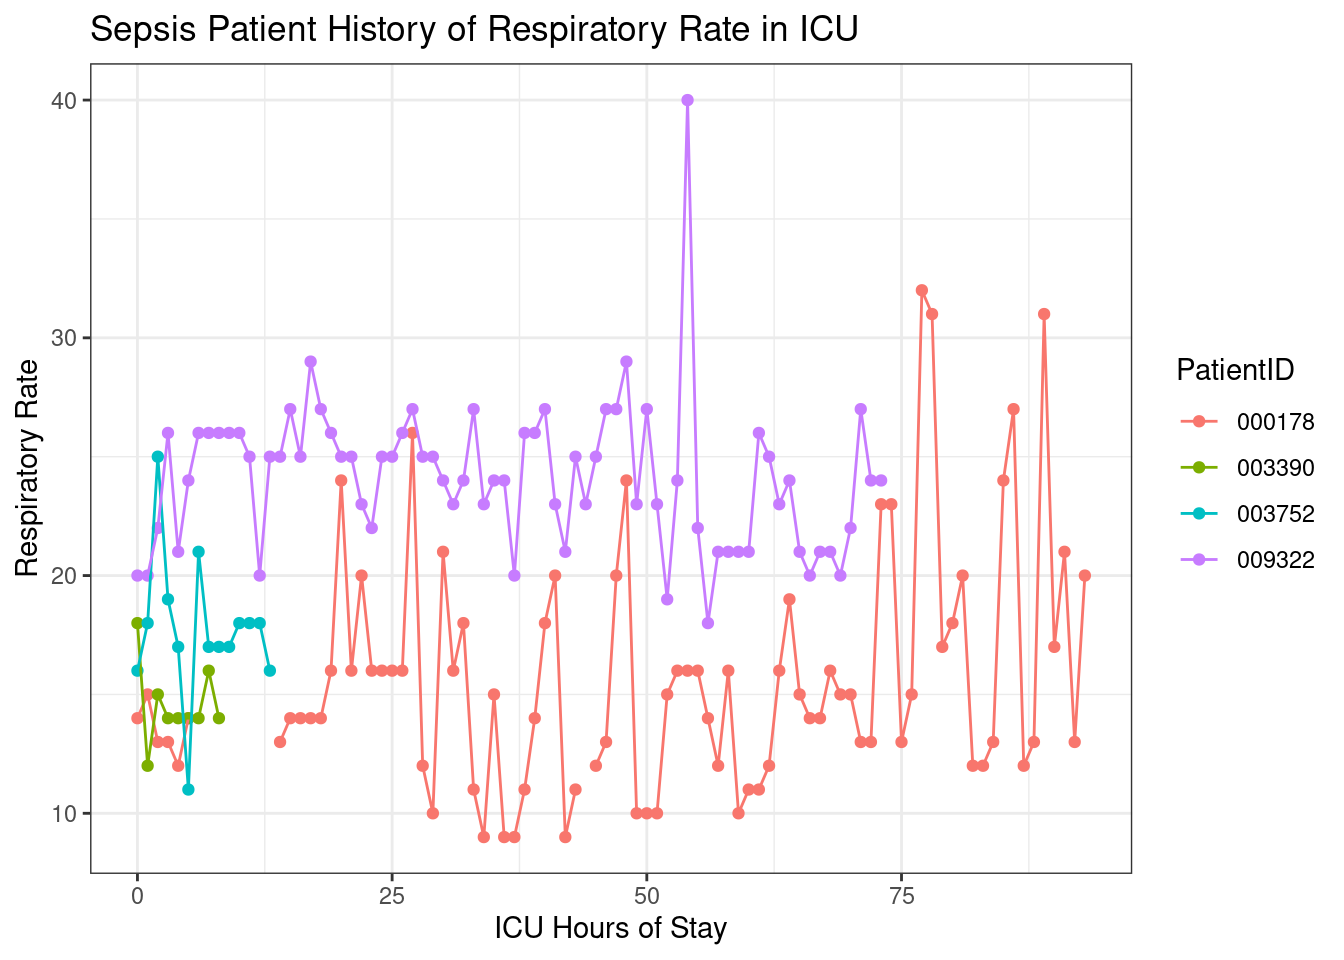
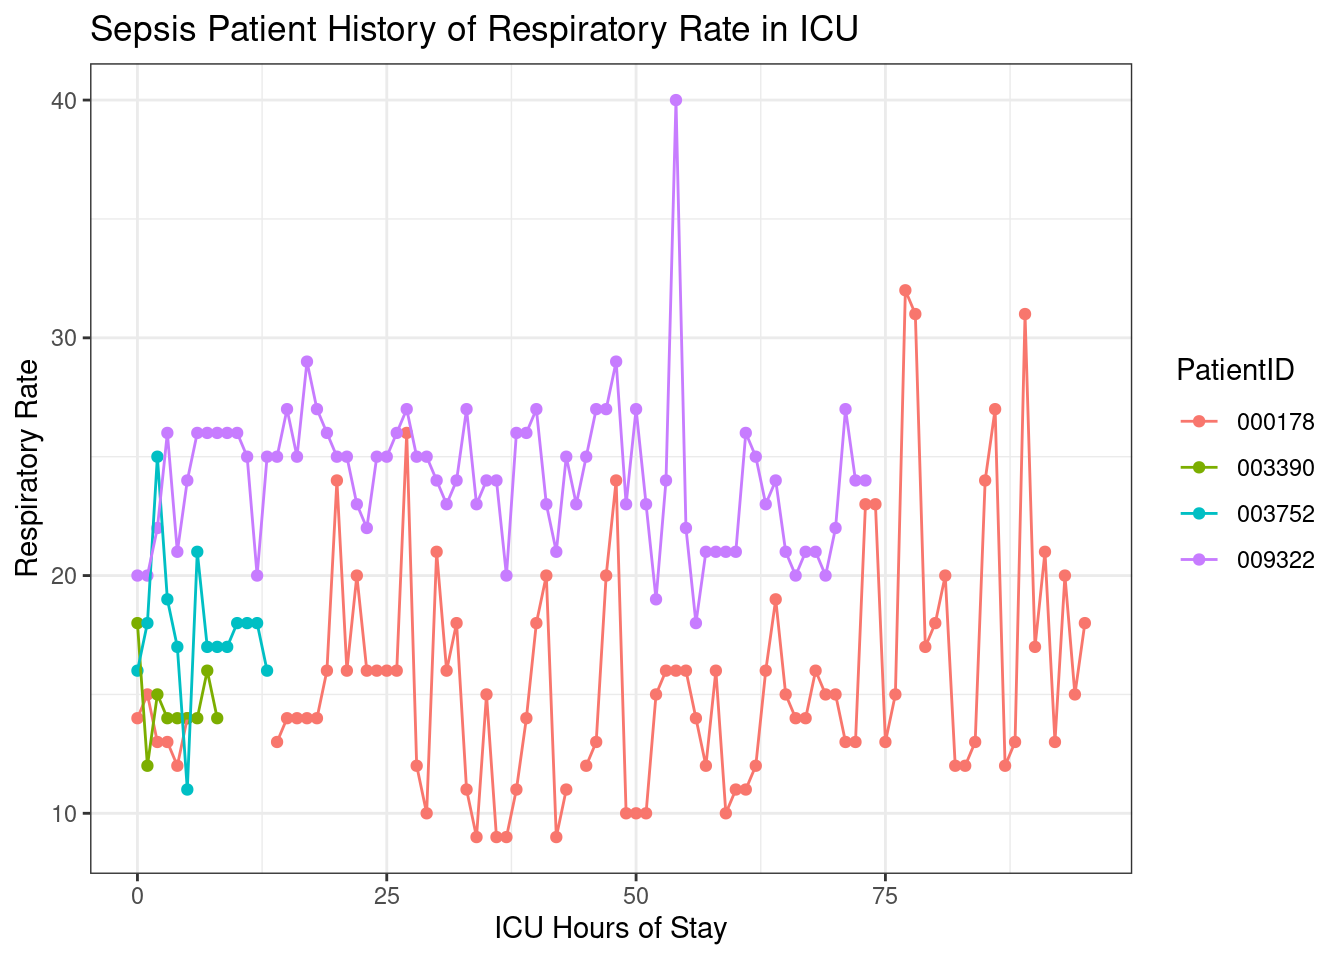
Updated report

diff --git a/A7.html b/A7.html
@@ -63,7 +63,7 @@ ul.task-list li input[type="checkbox"] {
 
 </header>
 
-<p>Report Last run 2023-04-12 15:12:49</p>
+<p>Report Last run 2023-04-12 16:15:26</p>
 <div class="cell">
 
 </div>
@@ -72,7 +72,7 @@ ul.task-list li input[type="checkbox"] {
 </div>
 <section id="task-4-make-an-icu-status-report" class="level1">
 <h1>Task 4: Make an ICU status report</h1>
-<p>This report was generated on 2023-04-12 15:12:53.</p>
+<p>This report was generated on 2023-04-12 16:15:29.</p>
 <div class="cell">
 <div class="cell-output-display">
 
@@ -90,10 +90,10 @@ ul.task-list li input[type="checkbox"] {
 <tbody>
   <tr>
    <td style="text-align:left;"> 000178 </td>
-   <td style="text-align:right;"> 93 </td>
-   <td style="text-align:right;"> 111 </td>
-   <td style="text-align:right;"> 37.89 </td>
-   <td style="text-align:right;"> 20 </td>
+   <td style="text-align:right;"> 95 </td>
+   <td style="text-align:right;"> 117 </td>
+   <td style="text-align:right;"> NA </td>
+   <td style="text-align:right;"> 18 </td>
   </tr>
   <tr>
    <td style="text-align:left;"> 003390 </td>
